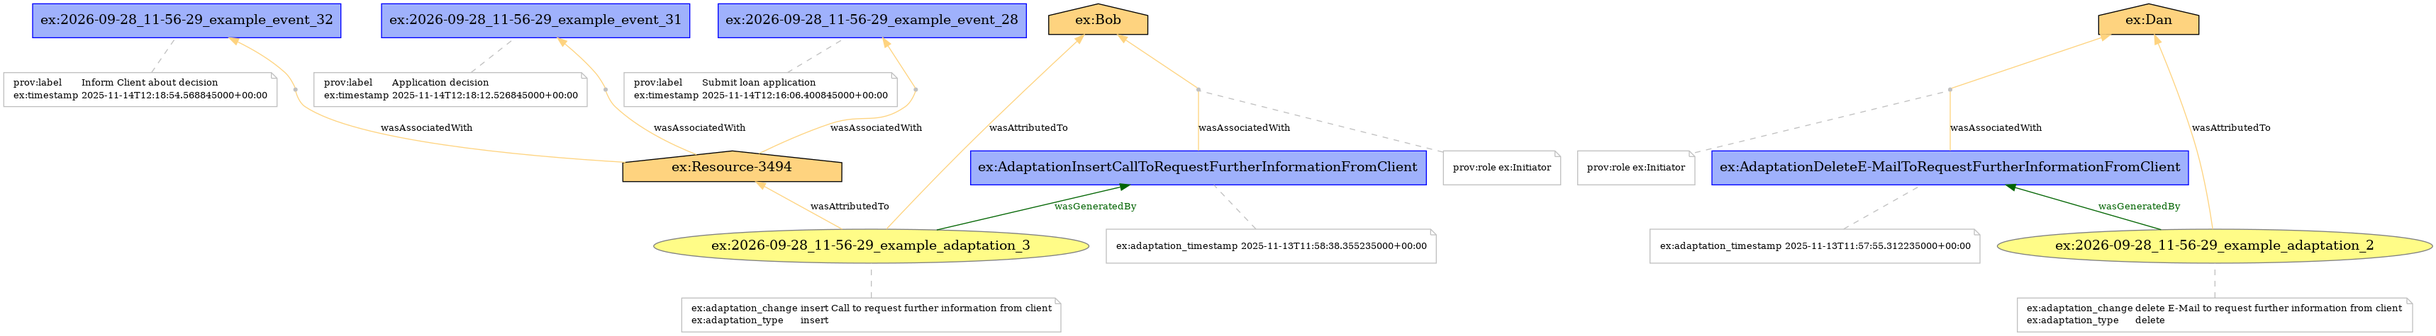
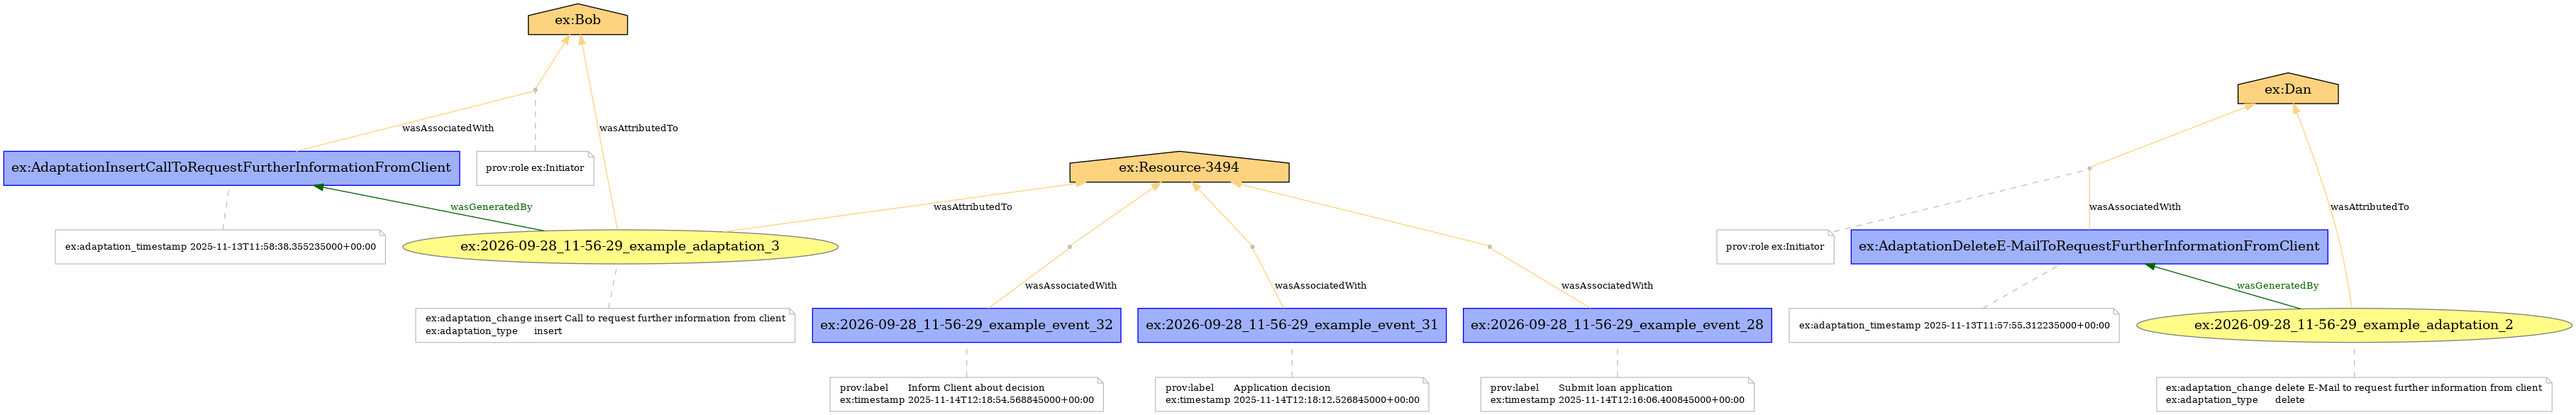
fixed wasAssociatedWith arrow direction

diff --git a/prov_format/generate_prov.py b/prov_format/generate_prov.py
@@ -115,7 +115,7 @@ def create_event_terms(document, event):
                     "ex:timestamp": f"{ev['time']}",
                 },)
                 # Create association between the action and agent:
-                document.wasAssociatedWith(a, e)
+                document.wasAssociatedWith(e, a)
 
 
 
